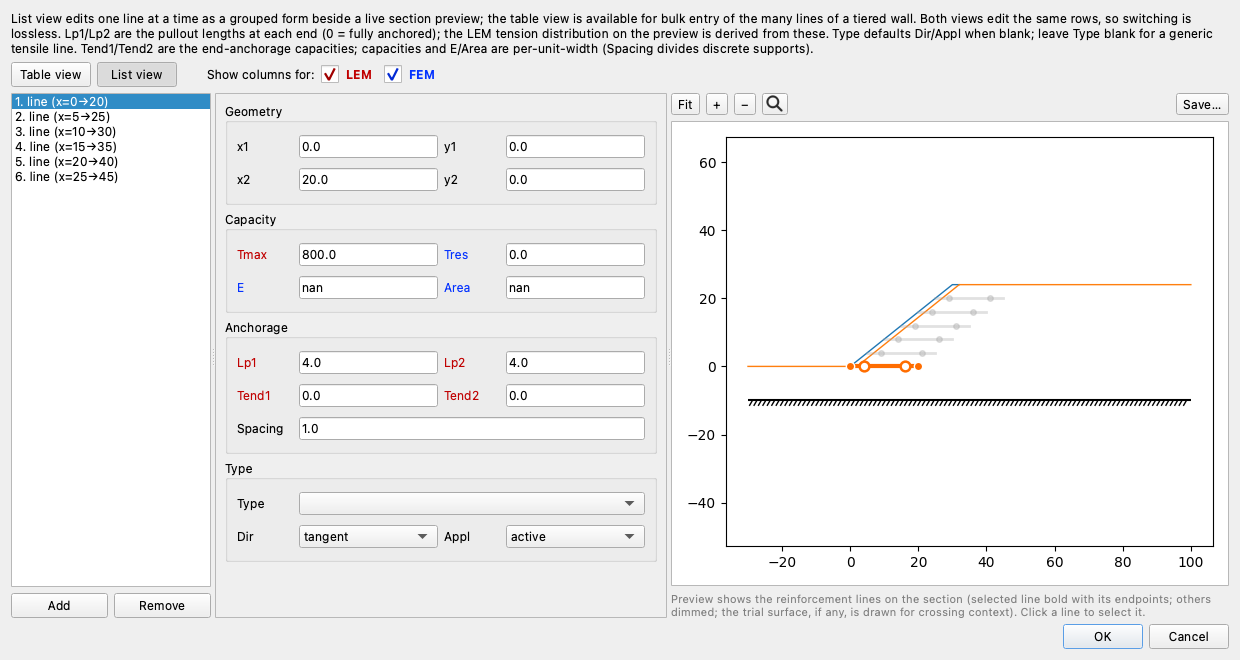
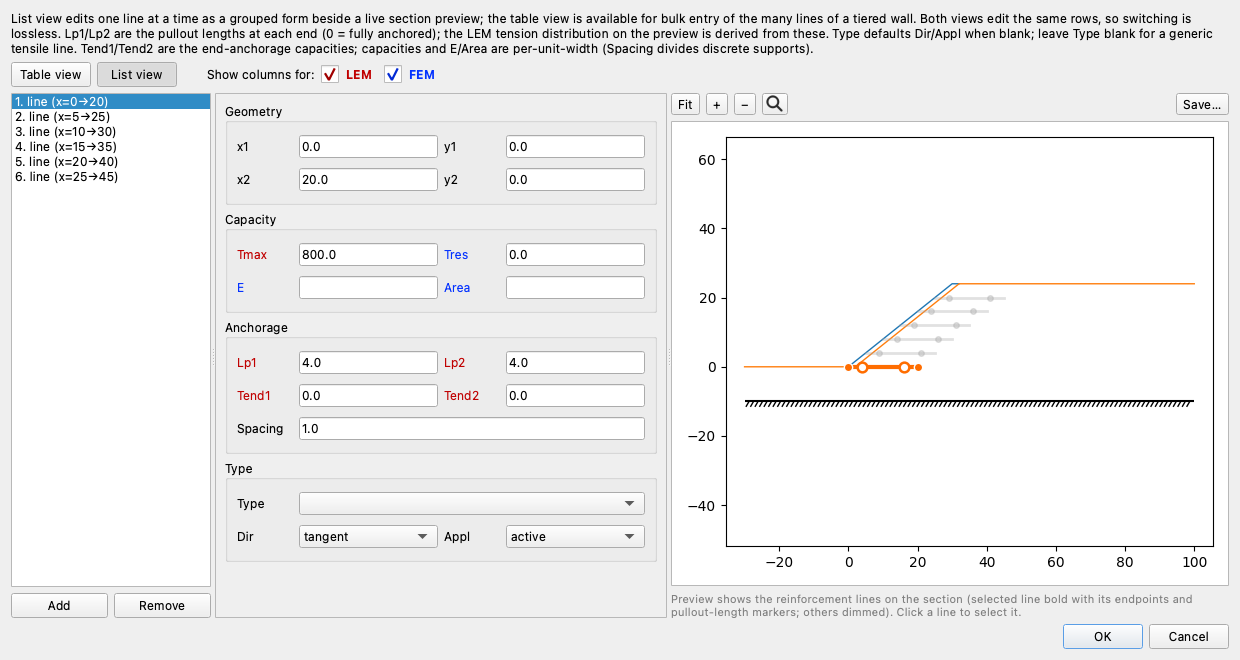
studio: list-view polish — blank NaN fields, accurate preview caption
Two review catches on the new list views before shipping: optional numeric
fields carrying NaN (t_res/E/area on lines that don't use them) rendered the
literal string 'nan' — now blank, in both the line and materials forms; and
the reinforcement preview caption still promised trial-surface context that
the declutter removed — now it describes the pullout-length markers it
actually draws. Reinforcement list-view docs image re-grabbed. Gate 17/17.

Claude-Session: https://claude.ai/code/session_0147GB4LGVZuqGHCRMVzZTsR

diff --git a/studio/editors.py b/studio/editors.py
@@ -1726,7 +1726,10 @@ class _MaterialListView(QWidget):
                 w.blockSignals(False)
             else:
                 w.blockSignals(True)
-                w.setText("" if val is None else str(val))
+                # NaN is "unset" throughout the templates (e.g. t_res, E, area on
+                # lines that don't carry them) — render blank, never the string "nan".
+                _blank = val is None or (isinstance(val, float) and val != val)
+                w.setText("" if _blank else str(val))
                 w.blockSignals(False)
         ok = 0 <= idx < len(self._rows)
         self.setEnabled(True)
@@ -2281,7 +2284,10 @@ class _LineListView(QWidget):
                 j = w.findText(txt)
                 w.setCurrentIndex(j if j >= 0 else 0)
             else:
-                w.setText("" if val is None else str(val))
+                # NaN is "unset" throughout the templates (e.g. t_res, E, area on
+                # lines that don't carry them) — render blank, never the string "nan".
+                _blank = val is None or (isinstance(val, float) and val != val)
+                w.setText("" if _blank else str(val))
             w.blockSignals(False)
         self._form_scroll.setEnabled(ok)
         if ok:
@@ -3452,9 +3458,8 @@ class ReinforcementEditor(CategoryEditor):
                       "(Spacing divides discrete supports).",
             usage_toggles=["lem", "fem"],
             preview_caption="Preview shows the reinforcement lines on the section "
-                            "(selected line bold with its endpoints; others dimmed; the "
-                            "trial surface, if any, is drawn for crossing context). "
-                            "Click a line to select it.")
+                            "(selected line bold with its endpoints and pullout-length "
+                            "markers; others dimmed). Click a line to select it.")
 
     def apply(self, slope_data, dlg):
         from xslope.fileio import build_reinforce_lines
